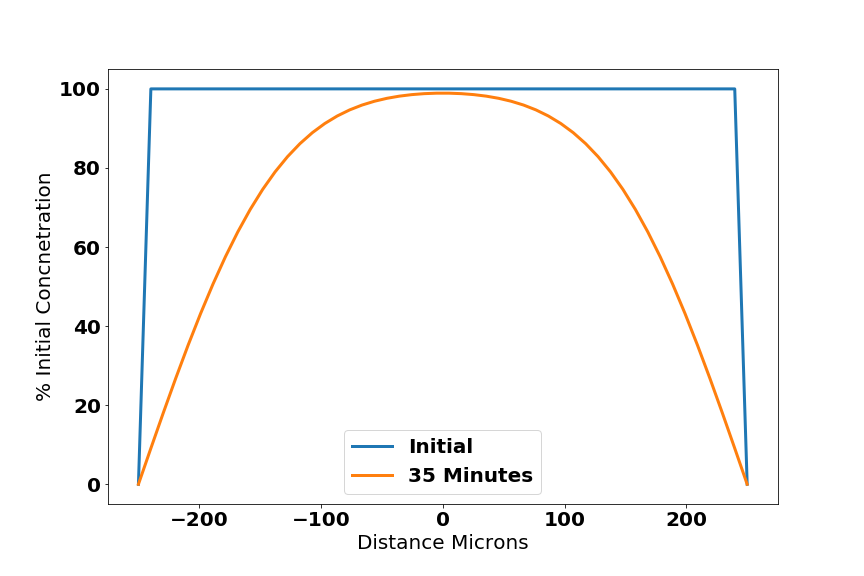
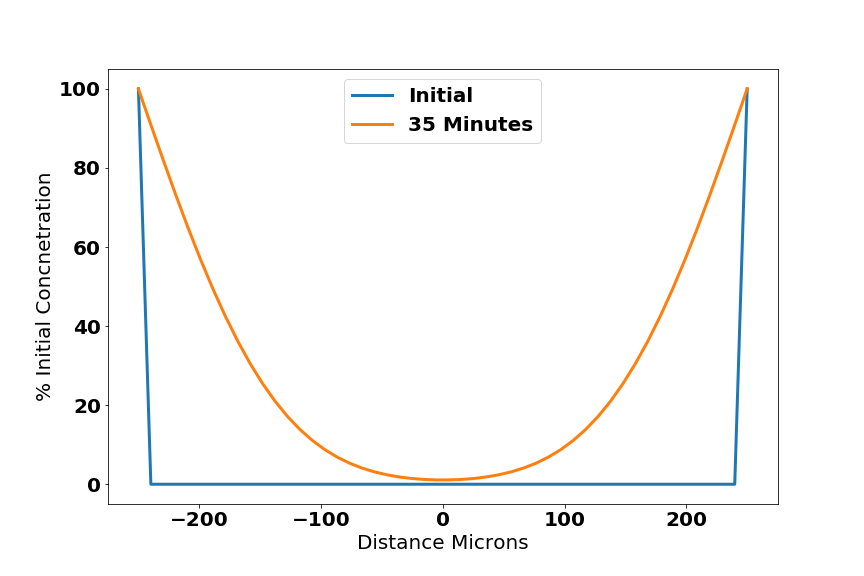
I am about to make significant changes. I the Clinopyroxene diffusion model has several problems. It appears I was using the wrong equation for the olivine diffusivity for the CPX section that I was then modifying. I will need to fix this and make adjustments.

diff --git a/Diffusion Modeling.py b/Diffusion Modeling.py
@@ -1,34 +1,37 @@
 import numpy as np
 import scipy.linalg as la
 import pandas as pd
+import janitor
 from matplotlib import pyplot as plt
 
 # %%
 # I am writing a code that will  support diffusion modeling
 
-T_C = 1000;
-T_K = T_C+273;
-DH2O = 1e12*(10**(-5.4))*np.exp(-130000/(8.314*T_K)) # Ferriss diffusivity in um2/s
-logDH2O = np.log10(DH2O/1e12)
+T_C = 1000
+T_K = T_C + 273
+DH2O = (
+    1e12 * (10 ** (-5.4)) * np.exp(-130000 / (8.314 * T_K))
+)  # Ferriss diffusivity in um2/s
+logDH2O = np.log10(DH2O / 1e12)
 logDH2O
 
 
 # These are critical for stability of model. Must think about time steps and model points.
 N_points = 100
-profile_length = 1500 # Microns
-dX = profile_length / (N_points -1) # Microns
+profile_length = 1500  # Microns
+dX = profile_length / (N_points - 1)  # Microns
 
-Distances = [0+dX*Y - profile_length/2 for Y in range(N_points)]
+Distances = [0 + dX * Y - profile_length / 2 for Y in range(N_points)]
 
 
-max_time_step = DH2O**2 / (4*dX)
+max_time_step = DH2O ** 2 / (4 * dX)
 max_time_step
-dt = 0.5 #1 #0.0973 # time step seconds
+dt = 0.5  # 1 #0.0973 # time step seconds
 
-boundary = 10 #ppm
-initial_C = 18 # ppm
+boundary = 10  # ppm
+initial_C = 18  # ppm
 
-v = np.mat(np.ones(N_points)* initial_C).T
+v = np.mat(np.ones(N_points) * initial_C).T
 v[0], v[-1] = boundary, boundary
 v_initial = v
 
@@ -37,21 +40,24 @@ v_initial = v
 # In the future I can update this every timestep if temperature changes with time.
 # also update boundary conditions with time
 
+
 def diffusion_matrix(DH2O, dt, dx):
-    delta = (DH2O * dt)/ (dx**2)
+    delta = (DH2O * dt) / (dx ** 2)
 
     mat_base = np.zeros(N_points)
-    mat_base[0] = 1 - 2*delta
+    mat_base[0] = 1 - 2 * delta
     mat_base[1] = delta
 
     B = np.mat(la.toeplitz((mat_base)))
-    B[0,0] , B[-1,-1]  = 1, 1
-    B[0,1] , B[-1,-2] = 0 , 0
+    B[0, 0], B[-1, -1] = 1, 1
+    B[0, 1], B[-1, -2] = 0, 0
     return B
+
 
 # %%
 
-def time_steper(v_in, Diff_Matrix, timesteps, boundaries = None):
+
+def time_steper(v_in, Diff_Matrix, timesteps, boundaries=None):
     """
 Steps a finite element 1D diffusion model forward.
 
@@ -69,26 +75,32 @@ Return
     v_loop = v_in
     for idx, x in enumerate(range(round(timesteps))):
         v_loop = Diff_Matrix * v_loop
-        #if boundaries is not None:
-            # this currently wont work. I need to make it so the boundaries and timesteps are the same.
-            #v_loop[0], v_loop[-1] = boundaries[idx], boundaries[idx]
+        # if boundaries is not None:
+        # this currently wont work. I need to make it so the boundaries and timesteps are the same.
+        # v_loop[0], v_loop[-1] = boundaries[idx], boundaries[idx]
     return v_loop
 
 
-B = diffusion_matrix(DH2O,dt,dX)
+B = diffusion_matrix(DH2O, dt, dX)
 
-def plot_profiles(v,B,times_seconds, Distances, dt):
-    fig, ax = plt.subplots(figsize=(12,8))
+
+def plot_profiles(v, B, times_seconds, Distances, dt):
+    fig, ax = plt.subplots(figsize=(12, 8))
     for time in times_seconds:
-        plt.plot(Distances, time_steper(v, B, round(time/dt)), label = str(time/60) + " Minutes")
+        plt.plot(
+            Distances,
+            time_steper(v, B, round(time / dt)),
+            label=str(time / 60) + " Minutes",
+        )
 
-    ax.legend(loc =1)
+    ax.legend(loc=1)
     ax.set_xlabel("Distance to center of crystal ")
     ax.set_ylabel("ppm water")
 
-times = [0, 60*5,15*60, 60*60, 60*60*1.5, 60*60*2]
 
-plot_profiles(v,B,times, Distances, dt)
+times = [0, 60 * 5, 15 * 60, 60 * 60, 60 * 60 * 1.5, 60 * 60 * 2]
+
+plot_profiles(v, B, times, Distances, dt)
 plt.savefig(" Olivine Diffusion Stalled 18ppm initial")
 # time given in seconds then divided by dt to give number of steps
 
@@ -105,9 +117,8 @@ ax.set_ylabel("ppm water")
  7000/dt/60
 
 """
-D_OPX = 1e12*(10**(-3))*np.exp(-181000/(8.314*T_K))  / 10
-D_CPX = 1e12*(10**(-3))*np.exp(-181000/(8.314*T_K))  / 500
-
+D_OPX = 1e12 * (10 ** (-3)) * np.exp(-181000 / (8.314 * T_K)) / 10
+D_CPX = 1e12 * (10 ** (-3)) * np.exp(-181000 / (8.314 * T_K)) / 500
 
 
 DH2O
@@ -115,20 +126,43 @@ DH2O
 import pynams.diffusion.models as pydiff
 
 
-
 # CPX Diffusion
-D_CPX = 1e12*(10**(-3))*np.exp(-181000/(8.314*T_K))  / 100
-f,a,x,y = pydiff.diffusion1D(300, np.log10(D_CPX/10**12),  60*60,  maximum_value = 100, init = 100, fin=0);
+D_CPX = 1e12 * (10 ** (-3)) * np.exp(-181000 / (8.314 * T_K)) / 200
+f, a, x, y = pydiff.diffusion1D(
+    300, np.log10(D_CPX / 10 ** 12), 60 * 60, maximum_value=100, init=100, fin=0
+)
+# init = 100, fin=0);
 
-fig, ax = plt.subplots(figsize = (12,8))
-plt.plot(x,y)
+fig, ax = plt.subplots(figsize=(12, 8))
+plt.plot(x, y)
 max(y)
 min(y)
-CPX_Distances = np.array([123,217,34,80,178,176,213,40,171,37,129,51,116,94,222,33])
-CPX_Concentration = np.array([587.84,550.13,502.16,600.01,555.79,462.74,584.46,482.85,600.11,515.52,579.71,585.51,578.85,467.86,575.57,459.29])
-plt.plot(CPX_Distances - 150, CPX_Concentration, marker='o' , linestyle ='None')
-ax.set_xlabel('Distance (Microns)')
-ax.set_ylabel('H2O ppm')
+CPX_Distances = np.array(
+    [123, 217, 34, 80, 178, 176, 213, 40, 171, 37, 129, 51, 116, 94, 222, 33]
+)
+CPX_Concentration = np.array(
+    [
+        587.84,
+        550.13,
+        502.16,
+        600.01,
+        555.79,
+        462.74,
+        584.46,
+        482.85,
+        600.11,
+        515.52,
+        579.71,
+        585.51,
+        578.85,
+        467.86,
+        575.57,
+        459.29,
+    ]
+)
+plt.plot(CPX_Distances - 150, CPX_Concentration, marker="o", linestyle="None")
+ax.set_xlabel("Distance (Microns)")
+ax.set_ylabel("H2O ppm")
 
 # %%
 
@@ -136,96 +170,113 @@ ax.set_ylabel('H2O ppm')
 
 
 N_points = 50
-profile_length = 500 # Microns
-dX = profile_length / (N_points -1) # Microns
+profile_length = 500  # Microns
+dX = profile_length / (N_points - 1)  # Microns
 
-Distances = [0+dX*Y - profile_length/2 for Y in range(N_points)]
+Distances = [0 + dX * Y - profile_length / 2 for Y in range(N_points)]
 
-boundary = 0 #ppm
-initial_C = 100 # ppm
-v = np.mat(np.ones(N_points)* initial_C).T
+boundary = 100  # 0 #ppm
+initial_C = 0  # 100 # ppm
+v = np.mat(np.ones(N_points) * initial_C).T
 v[0], v[-1] = boundary, boundary
 v_initial = v
-df1 = pd.DataFrame(index = [10,100,200], columns=range(900, 1350,50))
-df50 = pd.DataFrame(index = [10,100,200], columns=range(900, 1350,50))
-df90 = pd.DataFrame(index = [10,100,200], columns=range(900, 1350,50))
+df1 = pd.DataFrame(index=[10, 100, 200], columns=range(900, 1350, 50))
+df50 = pd.DataFrame(index=[10, 100, 200], columns=range(900, 1350, 50))
+df90 = pd.DataFrame(index=[10, 100, 200], columns=range(900, 1350, 50))
 
 Panels = [df1, df50, df90]
 for idx, percent_eq in enumerate([1, 50, 90]):
-    percent_remain = 100 - percent_eq
+    # percent_remain = 100 - percent_eq # diffusion out
     df = Panels[idx]
-    for T_C2 in range(900,1350,25):
-        T_K2 = T_C2+273;
+    for T_C2 in range(900, 1350, 25):
+        T_K2 = T_C2 + 273
         for F_cpx2 in [10, 100, 200]:
-            D_cpx2 = (1e12*(10**(-3))*np.exp(-181000/(8.314*T_K2))/F_cpx2)
+            D_cpx2 = (
+                1e12 * (10 ** (-3)) * np.exp(-181000 / (8.314 * T_K2)) / F_cpx2
+            )  # THIS IS OLD AND BAD IT USED ELIZABETH'S
 
             v_loop = v_initial
-            time = 11*60
-            time_tot= 0
-            while np.max(v_loop) > percent_remain:
-                    time = 1*60
-                    time_tot= 1*60 + time_tot
-                    dt = 1
-                    B = diffusion_matrix(D_cpx2,dt,dX)
-                    v_loop = time_steper(v_loop, B, time)
-                    if np.max(v_loop) < percent_remain:
-                        df.loc[F_cpx2][T_C2] = time_tot/60
-
+            time = 11 * 60
+            time_tot = 0
+            # while np.max(v_loop) > percent_remain: # diffusion out
+            while v_loop[int(len(v_loop) / 2)] < percent_eq:  # diffusion in
+                time = 1 * 60
+                time_tot = 1 * 60 + time_tot
+                dt = 1
+                B = diffusion_matrix(D_cpx2, dt, dX)
+                v_loop = time_steper(v_loop, B, time)
+                # if np.max(v_loop) < percent_remain:
+                #    df.loc[F_cpx2][T_C2] = time_tot/60
+            df.loc[F_cpx2][T_C2] = time_tot / 60
 
 df1
 df50
 df90
-# %%
-font = {'family' : 'normal',
-        'weight' : 'bold',
-        'size'   : 20}
 
-plt.rc('font', **font)
-fix, ax = plt.subplots(figsize =(12,8))
-fig, ax = plt.subplots(figsize = (12,8))
-T_K2 = 1200+273;
-time = 35*60
-time_tot= 15*60 + time_tot
-D_cpx2 = (1e12*(10**(-3))*np.exp(-181000/(8.314*T_K2))/200)
+# %%
+T_C3 = 1200
+T_K3 = T_C3 + 273
+D_cpx3 = 1e12 * (10 ** (-3)) * np.exp(-181000 / (8.314 * T_K3)) / 200
+
+Minutes = (250 ** 2 / D_cpx3) / 60
+
+D_OL1 = 10 ** (-5.4) * np.exp(-130000 / ((8.314 * T_K3)))
+(250 * 10 ** -6) ** 2 / (D_OL1 / 200) / 60 / 60
+
+Minutes / 60
+# %%
+
+# %%
+font = {"family": "normal", "weight": "bold", "size": 20}
+
+plt.rc("font", **font)
+fix, ax = plt.subplots(figsize=(12, 8))
+fig, ax = plt.subplots(figsize=(12, 8))
+T_K2 = 1200 + 273
+time = 35 * 60
+time_tot = 15 * 60 + time_tot
+D_cpx2 = (
+    1e12 * (10 ** (-3)) * np.exp(-181000 / (8.314 * T_K2)) / 200
+)  # olivine diffusivity divided by 200
 dt = 1
-B = diffusion_matrix(D_cpx2,dt,dX)
-v_loop1 = time_steper(v_initial, B, 0,)
-v_loop2 = time_steper(v_initial, B, time, )
-plt.plot(Distances,v_loop1,linewidth =3, label = "Initial")
-plt.plot(Distances,v_loop2, linewidth =3,label = "35 Minutes")
+B = diffusion_matrix(D_cpx2, dt, dX)
+v_loop1 = time_steper(v_initial, B, 0)
+v_loop2 = time_steper(v_initial, B, time)
+plt.plot(Distances, v_loop1, linewidth=3, label="Initial")
+plt.plot(Distances, v_loop2, linewidth=3, label="35 Minutes")
 ax.legend()
-ax.set_ylabel('% Initial Concnetration')
-ax.set_xlabel('Distance Microns')
-plt.savefig('Core_Preserved')
+ax.set_ylabel("% Initial Concnetration")
+ax.set_xlabel("Distance Microns")
+plt.savefig("Core_Preserved")
 
 
 # %%
 # df1 = df
-#df90 = df
+# df90 = df
 # df50 = df
 
-font = {'family' : 'normal',
-        'weight' : 'bold',
-        'size'   : 20}
+font = {"family": "normal", "weight": "bold", "size": 20}
 
-plt.rc('font', **font)
-fix, ax = plt.subplots(figsize =(12,8))
+plt.rc("font", **font)
+fix, ax = plt.subplots(figsize=(12, 8))
 
-#df90.iloc[2].plot(label = '90% Equilibrated with Magma', lw = 4, c = '#1f77b4')
-#df50.iloc[2].plot(label = '50% Equilibrated with Magma', lw = 4, c = '#ff7f0e')
-df1.iloc[2].plot(label = 'Initial Concentration Preserved only in Core', lw = 4, c = '#d62728')
-#plt.plot(x= [800, 1400], y = [300, 300], color='k', linestyle='-', linewidth=2,)
-ax.set_xlabel('Temperature ˚C')
-ax.set_ylabel('Minutes to Equilibrate')
-ax.set_title('Time to Equilibrate Water in 0.5mm Clinopyroxene')
+# df90.iloc[2].plot(label = '90% Equilibrated with Magma', lw = 4, c = '#1f77b4')
+# df50.iloc[2].plot(label = '50% Equilibrated with Magma', lw = 4, c = '#ff7f0e')
+df1.iloc[2].plot(
+    label="Initial Concentration Preserved only in Core", lw=4, c="#d62728"
+)
+# plt.plot(x= [800, 1400], y = [300, 300], color='k', linestyle='-', linewidth=2,)
+ax.set_xlabel("Temperature ˚C")
+ax.set_ylabel("Minutes to Equilibrate")
+ax.set_title("Time to Equilibrate Water in 0.5mm Clinopyroxene")
 
-ax.fill_between([800,1350], [300,300], [700,700], color = 'green', alpha=0.3)
-ax.legend(loc =2)
-plt.savefig('Time to eq cpx')
-ax.annotate('0.05 MPa/s ',xy= (1215,710), color = 'green')
-ax.set_xlim(900,1300)
-ax.set_ylim(0,2000)
-plt.savefig('Time to eq cpx_200slow_1%_zoom_')
+ax.fill_between([800, 1350], [300, 300], [700, 700], color="green", alpha=0.3)
+ax.legend(loc=2)
+plt.savefig("Time to eq cpx")
+ax.annotate("0.05 MPa/s ", xy=(1215, 710), color="green")
+ax.set_xlim(900, 1300)
+ax.set_ylim(0, 2000)
+plt.savefig("Time to eq cpx_200slow_1%_zoom_")
 
 
 # %%

diff --git a/ToDo_diff_code.md b/ToDo_diff_code.md
@@ -16,4 +16,4 @@
 
 - What Should I assume for the Opx diffusivity? 10^-11 ?
 
-For now I will use my code for the beginning then megan's code to finish the fits. 
+For now I will use my code for the beginning then Megan's code to finish the fits.
